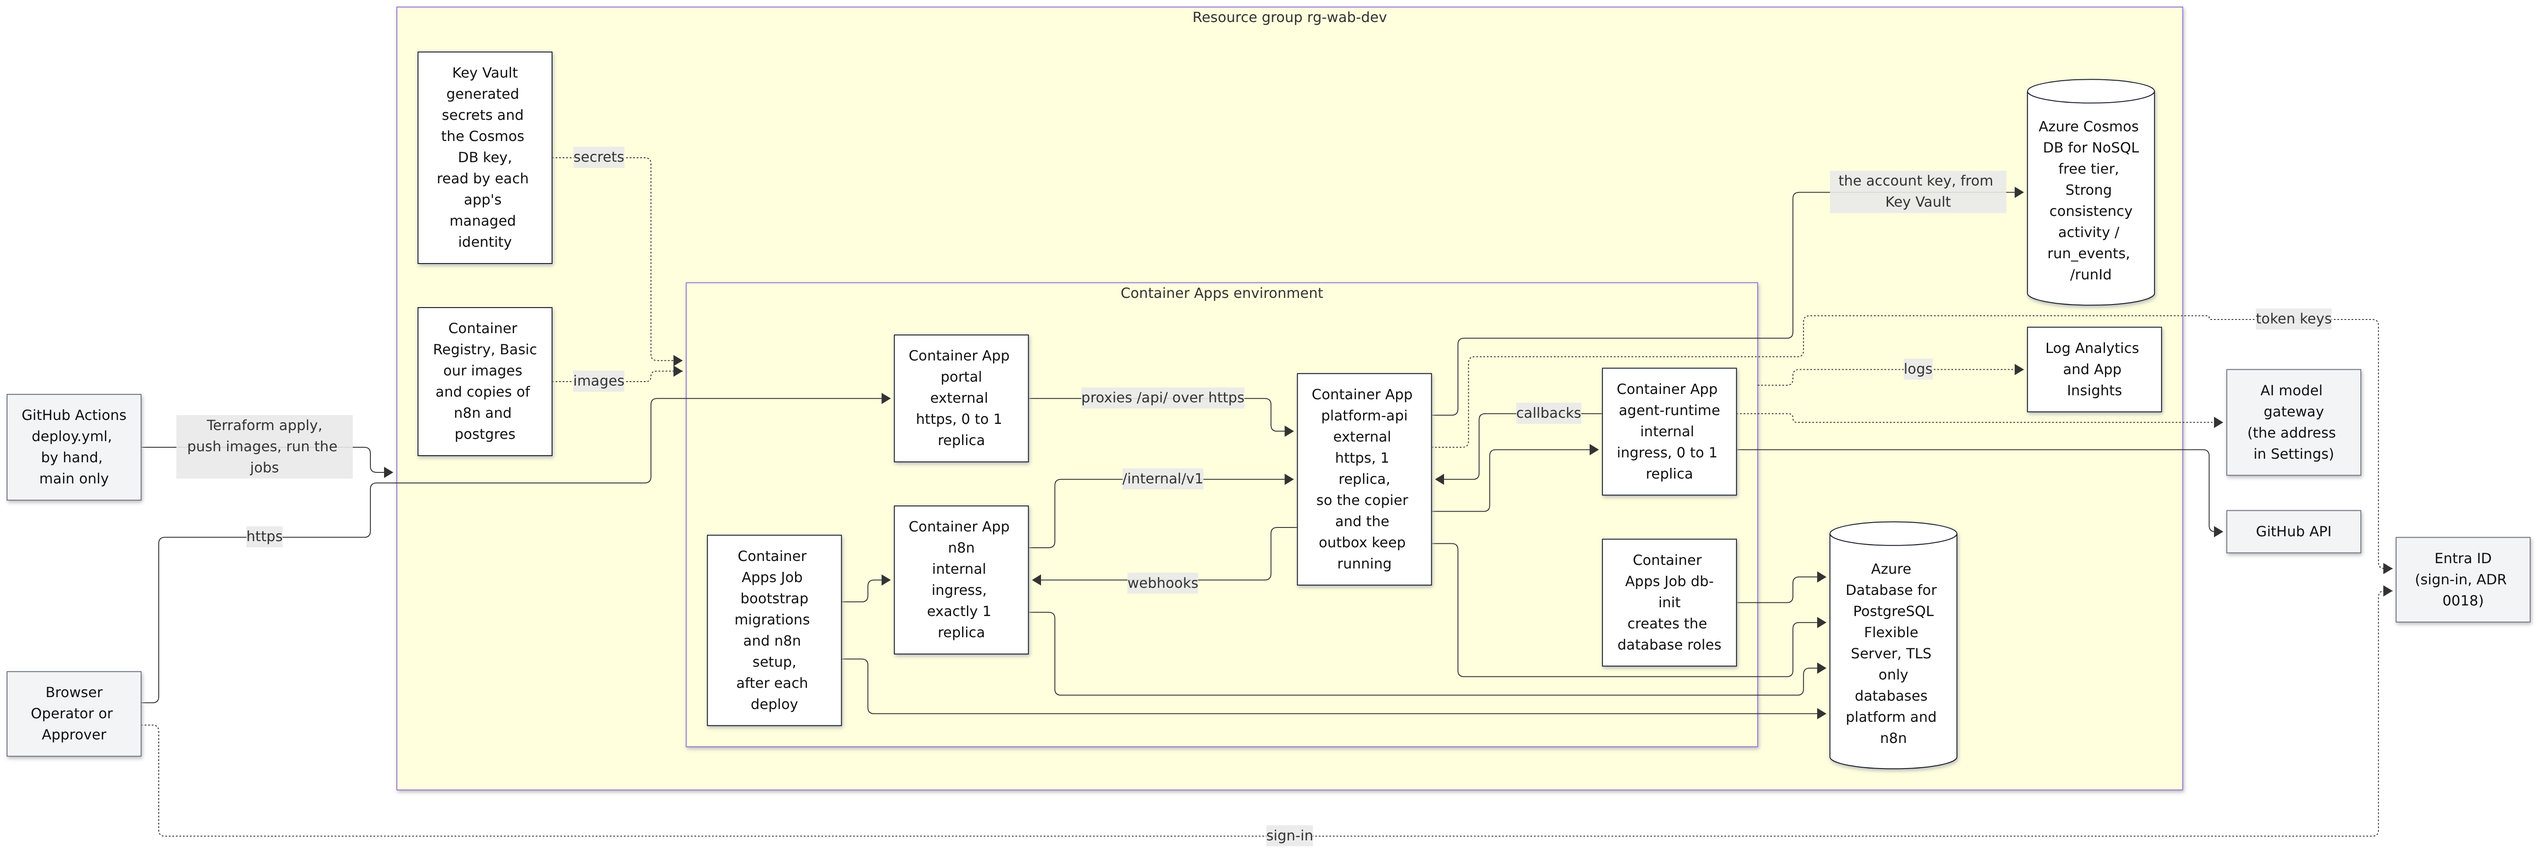
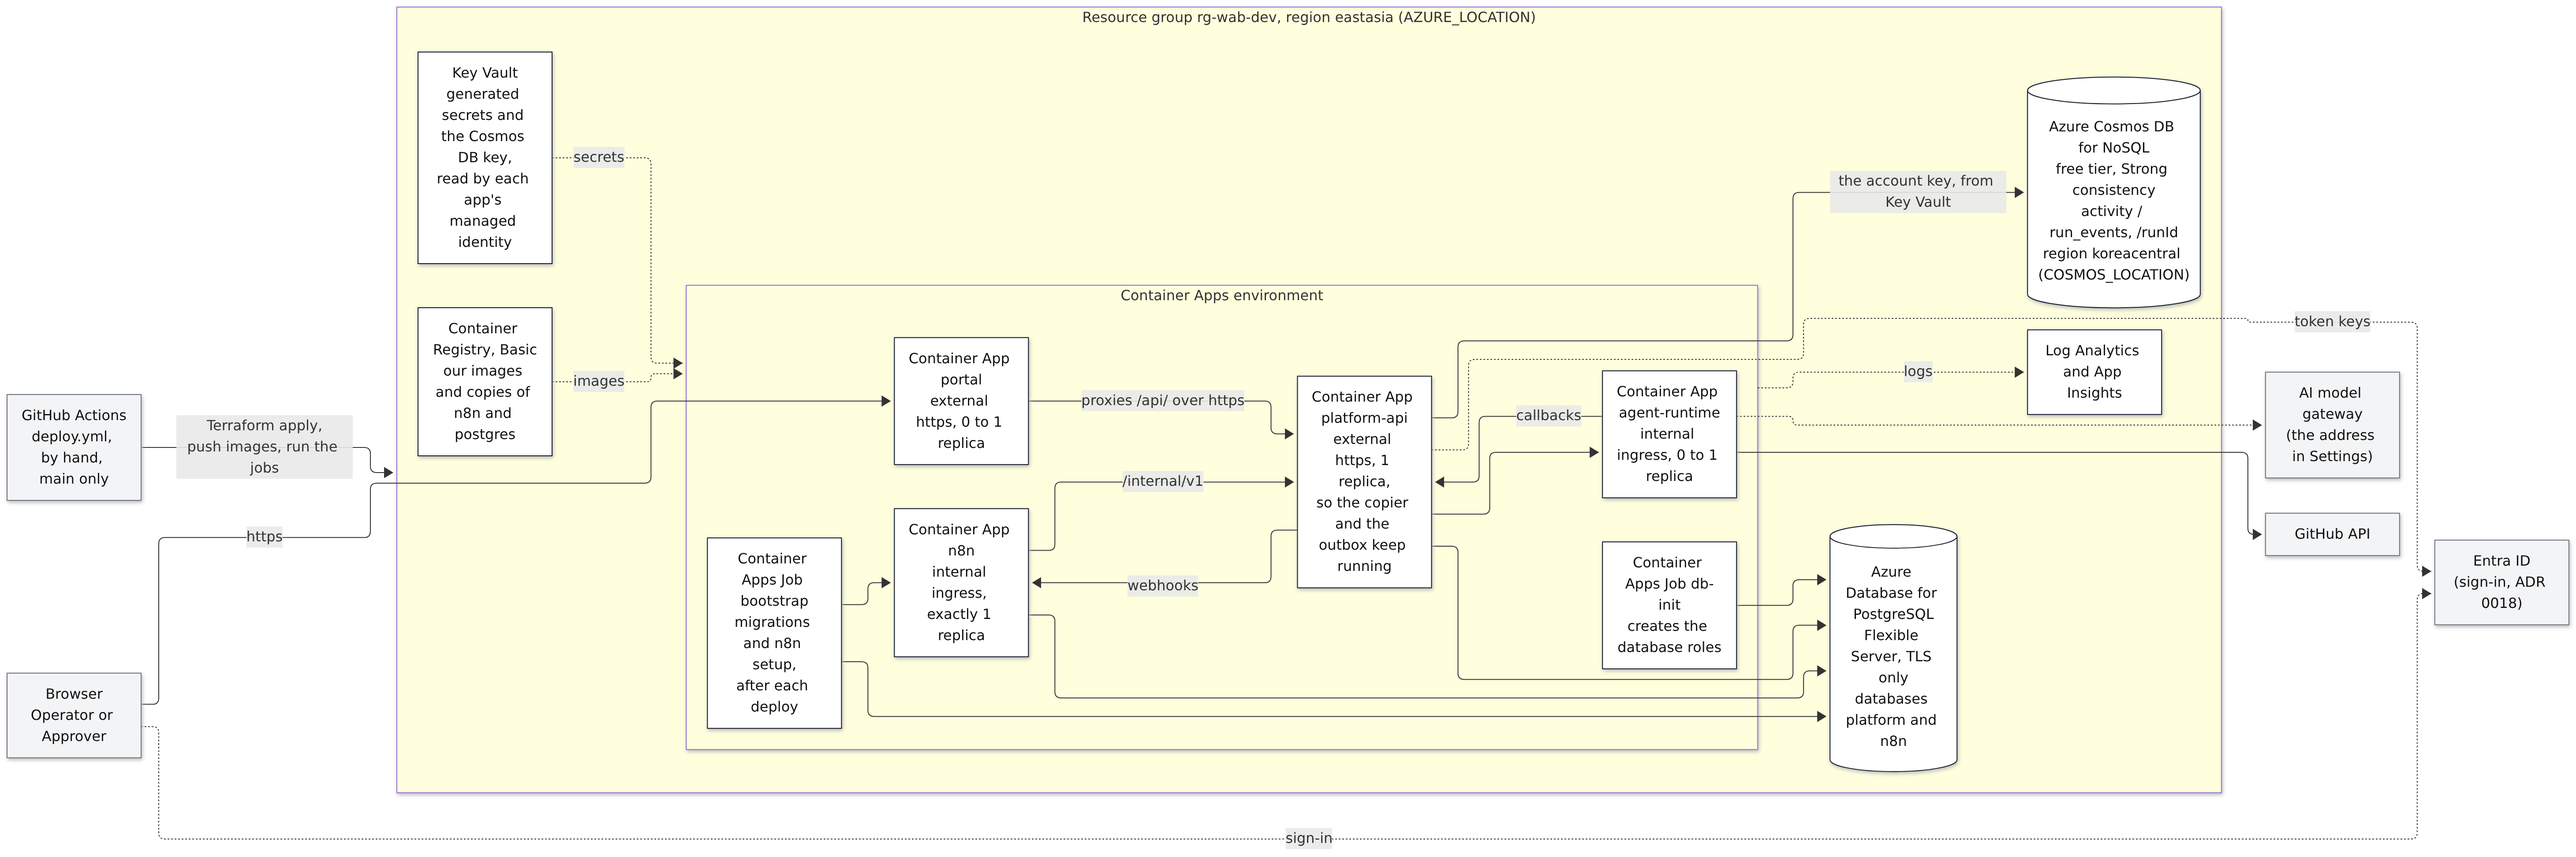
docs(docs): fix the diagrams the P15 review found, and render them again
- Use case diagram: the Approver can approve or decline from the Teams
  message, with its route in the table, and reads workflows, agents and
  why a run stopped, as the table says (C1). Only a real Teams message's
  buttons wait for Phase 2.
- Compose: nothing waits for the Cosmos DB emulator; the copier retries
  until it answers (A3).
- Azure: the regions set for the 31 Oct deploy, eastasia and koreacentral
  for Cosmos DB, as configured, not as a finished deploy. ADR 0031 should
  record them (A4).
- CI/CD draws ci.yml's jobs in the file's order. Step 3 of New workflow
  reads "When it runs". Diagram 17's note fits its box. "a watchlist
  check" replaces "a release check".

scripts/render-diagrams.sh: checked 17 diagrams, 21 event kinds, 31 tables
and 8 jobs, PASS. Five PNGs changed.

Claude-Session: https://claude.ai/code/session_0163kLzc62RqJZvY6wd8CwRb

diff --git a/docs/design/diagrams.md b/docs/design/diagrams.md
@@ -17,7 +17,7 @@ To check every diagram, run `scripts/render-diagrams.sh`. It renders each Mermai
 
 ## Use case diagram
 
-Two roles use the app, and one person may hold both. The Operator sets up workflows, looks after the Software watchlist and Settings, and retries a stopped workflow. The Approver says yes or no to a run's proposal and confirms the risky setup changes. Each use case sits on the page that does it. The pages are the Portal's menu (Home, Workflows, Software watchlist, Agent library and New workflow), the run page, Settings (the gear) and the practice Teams panel (the Teams button). Everyone signs in with Entra ID, and the People list gives them their roles.
+Two roles use the app, and one person may hold both. The Operator sets up workflows, looks after the Software watchlist and Settings, and retries a stopped workflow. The Approver says yes or no to a run's proposal, on the run page or from its message in the practice Teams panel, and confirms the risky setup changes. Each use case sits on the page that does it. The pages are the Portal's menu (Home, Workflows, Software watchlist, Agent library and New workflow), the run page, Settings (the gear) and the practice Teams panel (the Teams button). Everyone signs in with Entra ID, and the People list gives them their roles.
 
 ```mermaid
 flowchart LR
@@ -60,6 +60,7 @@ flowchart LR
         end
         subgraph teamspanel["Teams approvals"]
             m1(["Read the approval request<br/>and open its run page"])
+            m2(["Approve or decline from the message,<br/>never for your own work"])
         end
     end
 
@@ -86,10 +87,14 @@ flowchart LR
     operator --- t1
     operator --- t2
     approver --- h1
+    approver --- w1
+    approver --- a1
     approver --- r1
     approver --- r2
+    approver --- r3
     approver --- t3
     approver --- m1
+    approver --- m2
 
     n1 --- planner
     n2 --- planner
@@ -104,7 +109,7 @@ flowchart LR
     classDef page fill:#ffffff,stroke:#111827,color:#111
     class operator,approver person
     class planner,model,github,jira,teams system
-    class h1,h2,w1,w2,w3,n1,n2,n3,n4,s1,s2,a1,r1,r2,r3,t1,t2,t3,m1 page
+    class h1,h2,w1,w2,w3,n1,n2,n3,n4,s1,s2,a1,r1,r2,r3,t1,t2,t3,m1,m2 page
 ```
 
 Each use case maps to a page that exists and to the routes it calls:
@@ -130,8 +135,9 @@ Each use case maps to a page that exists and to the routes it calls:
 | Add people and set their roles | Settings | Operator | `POST /api/v1/people`, `PUT /api/v1/people/{person_id}/operator`, `POST /api/v1/people/{person_id}/approver` |
 | Confirm a new Approver or a new AI model address | Settings | Approver | `POST /api/v1/confirmations/{confirmation_id}/decisions`, `POST /api/v1/settings/model/address-decision` |
 | Read the approval request and open its run page | Teams approvals, the Teams button | Approver | `GET /api/v1/teams-stub/messages` |
+| Approve or decline from the message | Teams approvals, the Teams button | Approver | `GET /api/v1/approvals/{approval_id}` says whether you may decide, then `POST /api/v1/approvals/{approval_id}/decisions`. Own work is refused with 403 |
 
-Some parts of the prototype wait for Phase 2, each with its own decision first. They have no page yet, so they are not in the diagram: Connections and AI usage in Settings, named Approvers with a backup and an expiry (ADR 0024), Approve buttons inside a Teams message, Report to support, Open in n8n (ADRs 0026 and 0027), the Vulnerability checker and the package registries (ADR 0025), and the sponsor's two real use cases, the quarterly access review with two Approvers in turn and patch housekeeping.
+Some parts of the prototype wait for Phase 2, each with its own decision first. They have no page yet, so they are not in the diagram: Connections and AI usage in Settings, named Approvers with a backup and an expiry (ADR 0024), Approve buttons inside a real Teams message, Report to support, Open in n8n (ADRs 0026 and 0027), the Vulnerability checker and the package registries (ADR 0025), and the sponsor's two real use cases, the quarterly access review with two Approvers in turn and patch housekeeping.
 
 ## Bounded contexts (DDD context map)
 
@@ -1000,7 +1006,7 @@ flowchart LR
     class browser,maint,gh,model,envfile ext
 ```
 
-Services start in this order. postgres and the Cosmos DB emulator become healthy, then n8n becomes ready, then bootstrap runs to completion. bootstrap runs the migrations, sets up n8n, lints the n8n workflow files and loads them, the error workflow first. platform-api starts after bootstrap succeeds and the agent runtime is healthy. The Portal starts last.
+Services start in this order. postgres becomes healthy, then n8n becomes ready, then bootstrap runs to completion. bootstrap runs the migrations, sets up n8n, lints the n8n workflow files and loads them, the error workflow first. platform-api starts after bootstrap succeeds and the agent runtime is healthy. The Portal starts last. The Cosmos DB emulator starts alongside them, and nothing waits for it. Until it answers, platform-api's copier marks the copy as behind and keeps retrying.
 
 | Secret in `deploy/.env` | Read by |
 |---|---|
@@ -1024,7 +1030,7 @@ flowchart LR
     model["AI model gateway<br/>(the address in Settings)"]
     actions["GitHub Actions<br/>deploy.yml, by hand, main only"]
 
-    subgraph rg["Resource group rg-wab-dev"]
+    subgraph rg["Resource group rg-wab-dev, region eastasia (AZURE_LOCATION)"]
         direction LR
         subgraph aca["Container Apps environment"]
             direction TB
@@ -1036,7 +1042,7 @@ flowchart LR
             boot["Container Apps Job bootstrap<br/>migrations and n8n setup,<br/>after each deploy"]
         end
         pg[("Azure Database for PostgreSQL<br/>Flexible Server, TLS only<br/>databases platform and n8n")]
-        cosmos[("Azure Cosmos DB for NoSQL<br/>free tier, Strong consistency<br/>activity / run_events, /runId")]
+        cosmos[("Azure Cosmos DB for NoSQL<br/>free tier, Strong consistency<br/>activity / run_events, /runId<br/>region koreacentral (COSMOS_LOCATION)")]
         kv["Key Vault<br/>generated secrets and the Cosmos DB key,<br/>read by each app's managed identity"]
         acr["Container Registry, Basic<br/>our images and copies of n8n and postgres"]
         logs["Log Analytics and App Insights"]
@@ -1069,6 +1075,8 @@ flowchart LR
     class browser,entra,gh,model,actions ext
 ```
 
+**Regions.** Terraform puts every resource in `location`, which is `southeastasia` unless the deploy workflow's `AZURE_LOCATION` variable sets another region. The Cosmos DB account goes in `cosmos_location`, from `COSMOS_LOCATION`, or in `location` when that is empty. The diagram shows what is set for the deploy of 31 Oct 2026. `AZURE_LOCATION` is `eastasia`, because the subscription's policy refuses `southeastasia`. `COSMOS_LOCATION` is `koreacentral`, because East Asia refused the Cosmos DB account for lack of capacity. This is what is configured, not proof of a working deploy: when this was written, that deploy had not finished. ADR 0031 should record the region choice. That is a follow-up for the team.
+
 The Azure shape keeps three rules from the design.
 
 - n8n holds no write key. The practice Jira lives inside platform-api, and a real Jira key would reach platform-api only, from Key Vault.
@@ -1087,7 +1095,6 @@ config:
 ---
 flowchart TB
     pr["A pull request,<br/>or a push to main"]
-    push["A push to main, or by hand"]
     hand["By hand, on main"]
     daily["Every pull request, every push to main,<br/>and daily at 01:00 UTC"]
 
@@ -1096,7 +1103,9 @@ flowchart TB
         checks["<b>job checks</b><br/>matrix: platform-api, agent-runtime, e2e<br/>1. uv sync<br/>2. ruff check and ruff format<br/>3. pyright<br/>4. lint-imports, platform-api only<br/>5. contracts are current<br/>6. unit tests in the image, with PostgreSQL<br/>and, for platform-api, the Cosmos DB emulator<br/>7. the emulator kept its pinned packages<br/>8. build the runtime image<br/>9. mock GitHub and mock model tests, e2e only"]
         portaljob["<b>job portal</b><br/>1. npm ci<br/>2. typecheck<br/>3. lint<br/>4. unit tests<br/>5. build<br/>6. nginx render test"]
         scans["<b>job scans</b><br/>1. SAST with Semgrep<br/>2. keep the Semgrep report<br/>3. secret scan with gitleaks"]
-        e2e["<b>job e2e</b>, push or by hand only<br/>1. scripts/e2e.sh: API tests, then the browser suite<br/>2. keep the logs, screenshots and video<br/>3. DAST: scripts/dast.sh, OWASP ZAP<br/>4. keep the ZAP reports<br/>5. load test: scripts/load.sh, k6<br/>6. keep the k6 summary"]
+        e2e["<b>job e2e</b>, on a push to main or by hand only<br/>1. scripts/e2e.sh: API tests, then the browser suite<br/>2. keep the logs, screenshots and video<br/>3. DAST: scripts/dast.sh, OWASP ZAP<br/>4. keep the ZAP reports<br/>5. load test: scripts/load.sh, k6<br/>6. keep the k6 summary"]
+        %% Invisible links keep the jobs in the file's order, left to right.
+        checks ~~~ portaljob ~~~ scans ~~~ e2e
     end
 
     subgraph deploywf["deploy.yml"]
@@ -1122,17 +1131,13 @@ flowchart TB
     azure[("Azure: rg-wab-dev")]
     artifacts[("Run artifacts: Semgrep report, e2e logs,<br/>ZAP reports, k6 summary, infra checks, eval results")]
 
-    pr --> checks
-    pr --> portaljob
-    pr --> scans
-    push --> e2e
+    pr --> ci
     pr --> infra
     hand --> deploy
     hand --> evals
     daily --> pstack
     deploy --> azure
-    scans -.-> artifacts
-    e2e -.-> artifacts
+    ci -.-> artifacts
     infra -.-> artifacts
     evals -.-> artifacts
 
@@ -1140,7 +1145,7 @@ flowchart TB
     classDef trigger fill:#e8f0fe,stroke:#1a56db,color:#111
     classDef ext fill:#f3f4f6,stroke:#6b7280,color:#111
     class checks,portaljob,scans,e2e,deploy,evals,infra,pstack job
-    class pr,push,hand,daily trigger
+    class pr,hand,daily trigger
     class azure,artifacts ext
 ```
 
@@ -1202,7 +1207,7 @@ sequenceDiagram
     end
     B-->>P: 200 the plan, each step marked reads, no system access, or changes data and waits for a yes
 
-    Note over Op,P: Step 3. When and who
+    Note over Op,P: Step 3. When it runs
     Op->>P: picks the day and the time, Singapore time
 
     Note over Op,P: Step 4. Turn it on
@@ -1225,7 +1230,7 @@ sequenceDiagram
     P-)B: PUT /api/v1/drafts/{draft_id} {step, content}
 ```
 
-When the Planner reads a release check in step 1, it answers "belongs on the Software watchlist", and the page offers to open the Software watchlist instead of making a look-alike workflow (design note, section 4).
+When the Planner reads a watchlist check in step 1, it answers "belongs on the Software watchlist", and the page offers to open the Software watchlist instead of making a look-alike workflow (design note, section 4).
 
 ## Sequence: a watchlist check runs to the approval gate in Teams
 
@@ -1394,7 +1399,7 @@ sequenceDiagram
 
     Op->>P: opens Home
     P->>B: GET /api/v1/home
-    Note over B,M: Home lists the stopped run with the reason in its run_failed event.<br/>The AI troubleshooter has one rule for each failure reason
+    Note over B,M: Home lists the stopped run<br/>with the reason in its<br/>run_failed event. The AI<br/>troubleshooter has one rule<br/>for each failure reason
     B-->>P: 200 a stopped row {reason, retryable, advice}
     P-->>Op: GitHub was unavailable. You can retry.
     opt the Operator opens the run page

diff --git a/docs/evidence/diagrams/README.md b/docs/evidence/diagrams/README.md
@@ -51,3 +51,4 @@ Both came from the stack of the second DAST run (`docs/evidence/dast/2026-11-reb
 - That each key in an ER diagram matches the database. We compared them by hand with `schema-2026-10-31.txt`.
 - That a sequence diagram's order of calls matches the code. The two run diagrams follow the recorded runs in `contracts/fixtures/runs/`, and the other two were read from the code.
 - The use case diagram against the running Portal. Its table names the page and the routes for each use case.
+- Where Mermaid places each box. The job check reads the page's text, not the PNG. So the CI/CD diagram joins its trigger to the `ci.yml` box as a whole and chains that file's jobs with invisible links, which makes the PNG draw them left to right in the file's order.
